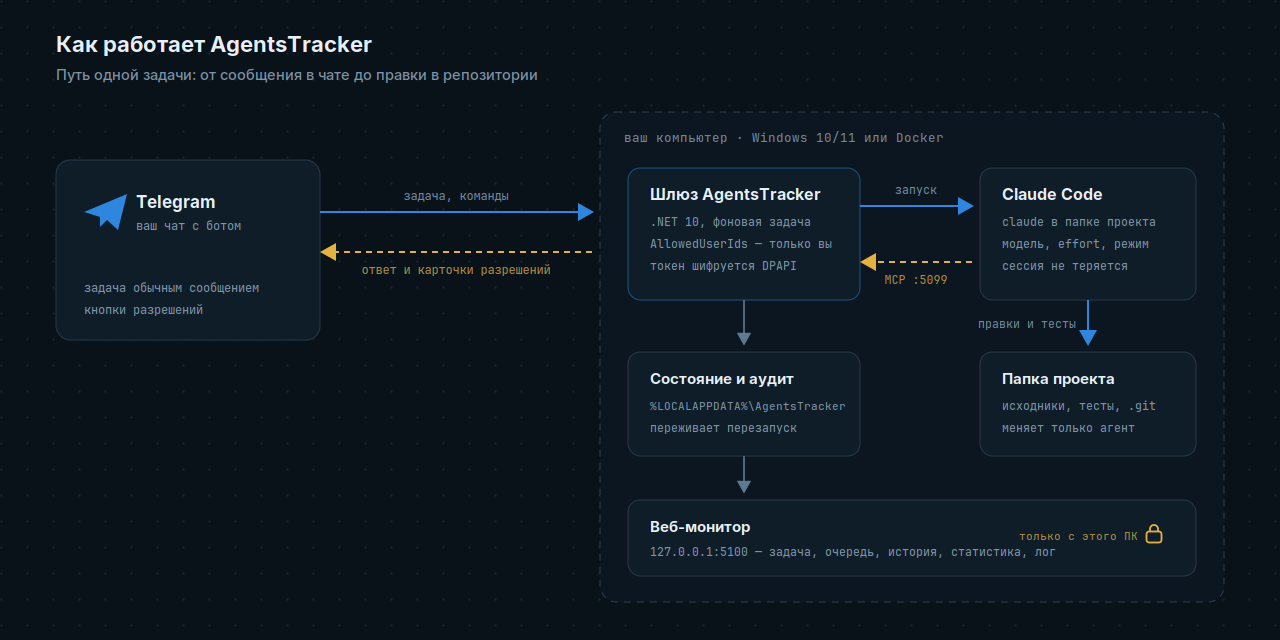
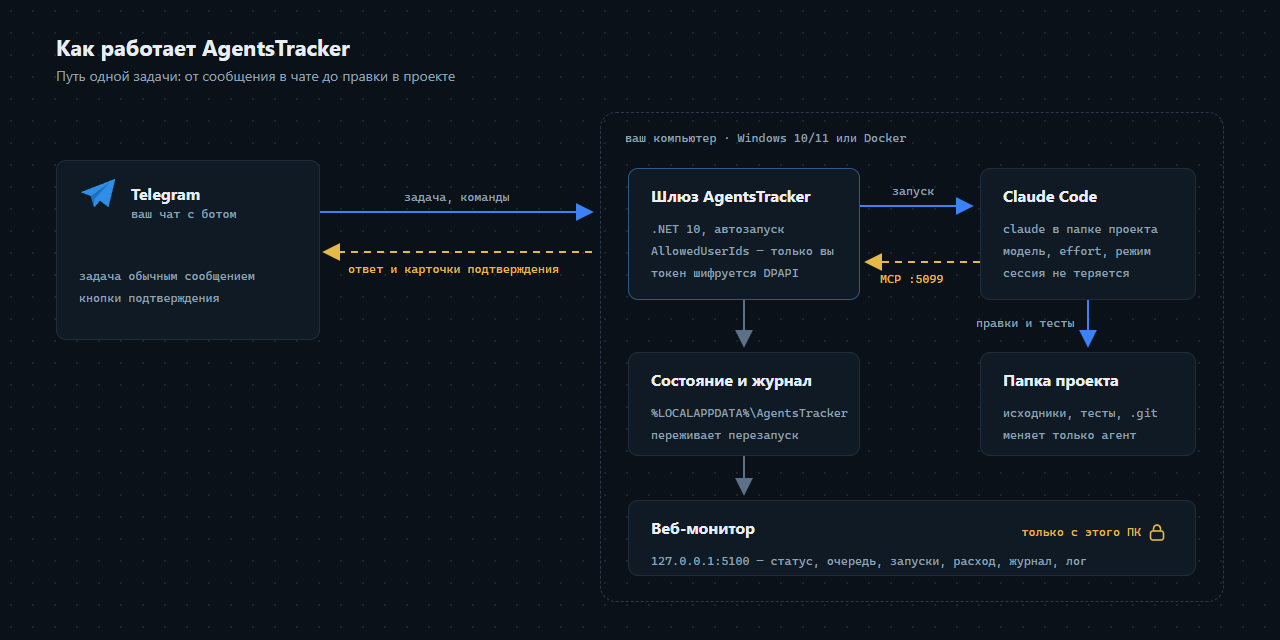
[readme] схема по глоссарию: проект вместо репозитория, карточки подтверждения, журнал; исходник схемы рядом

diff --git a/docs/images/architecture.html b/docs/images/architecture.html
@@ -1,0 +1,141 @@
+<!doctype html>
+<!--
+  Исходник docs/images/architecture.png. Картинку без исходника не поправить: слово на схеме
+  разойдётся с глоссарием, и его придётся рисовать заново. Снимок — окно 1280×640, например
+  через Playwright: browser_resize 1280×640, browser_navigate file:///…/architecture.html,
+  browser_take_screenshot.
+-->
+<html lang="ru">
+<head>
+<meta charset="utf-8">
+<title>Как работает AgentsTracker</title>
+<style>
+  :root {
+    --bg: #0b1118;
+    --card: #101a24;
+    --line: #1f2d3b;
+    --text: #e8eef4;
+    --muted: #8fa1b3;
+    --blue: #3b82f6;
+    --gold: #e5b84a;
+    --mono: "Cascadia Mono", Consolas, "DejaVu Sans Mono", monospace;
+    --sans: "Segoe UI", Inter, Arial, sans-serif;
+  }
+  * { box-sizing: border-box; margin: 0; }
+  html, body { width: 1280px; height: 640px; overflow: hidden; }
+  body {
+    position: relative;
+    background-color: var(--bg);
+    background-image: radial-gradient(#1a2633 1px, transparent 1px);
+    background-size: 22px 22px;
+    color: var(--text);
+    font-family: var(--sans);
+  }
+  h1 { position: absolute; left: 56px; top: 32px; font-size: 22px; font-weight: 700; }
+  .lead { position: absolute; left: 56px; top: 66px; font-size: 14px; color: var(--muted); }
+  .frame {
+    position: absolute; left: 600px; top: 112px; width: 624px; height: 490px;
+    border: 1px dashed #2a3a4a; border-radius: 16px;
+  }
+  .frame .tag { position: absolute; left: 24px; top: 18px; font: 12px var(--mono); color: var(--muted); }
+  .box {
+    position: absolute; background: var(--card); border: 1px solid var(--line);
+    border-radius: 10px; padding: 16px 22px;
+  }
+  .box.main { border-color: #2c5a8a; }
+  .box h2 { font-size: 16px; font-weight: 700; margin-bottom: 12px; }
+  .box p { font: 12px/22px var(--mono); color: var(--muted); }
+  .tg h2 { display: flex; align-items: center; gap: 14px; margin-bottom: 0; }
+  .tg .sub { font: 12px var(--mono); color: var(--muted); margin-left: 52px; margin-top: -2px; }
+  .tg .notes { margin-top: 44px; }
+  .lock { position: absolute; right: 30px; top: 22px; font: 12px var(--mono); color: var(--gold);
+          display: flex; align-items: center; gap: 8px; }
+  svg.arrows { position: absolute; left: 0; top: 0; }
+  .label { position: absolute; font: 12px var(--mono); color: var(--muted); }
+  .label.gold { color: var(--gold); }
+</style>
+</head>
+<body>
+  <h1>Как работает AgentsTracker</h1>
+  <div class="lead">Путь одной задачи: от сообщения в чате до правки в проекте</div>
+
+  <div class="box tg" style="left:56px; top:160px; width:264px; height:180px;">
+    <h2>
+      <svg width="38" height="32" viewBox="0 0 24 20" aria-hidden="true">
+        <path d="M23 1 1 9.5l6.5 2.4L9.8 19l3.4-4.1 5.4 4L23 1Z" fill="#2f8fe6"/>
+        <path d="m7.5 11.9 12.2-8.8-9.9 10.6-.5 5.3-1.8-7.1Z" fill="#1d6fc0"/>
+      </svg>
+      Telegram
+    </h2>
+    <div class="sub">ваш чат с ботом</div>
+    <p class="notes">задача обычным сообщением<br>кнопки подтверждения</p>
+  </div>
+
+  <div class="frame"><span class="tag">ваш компьютер · Windows 10/11 или Docker</span></div>
+
+  <div class="box main" style="left:628px; top:168px; width:232px; height:132px;">
+    <h2>Шлюз AgentsTracker</h2>
+    <p>.NET 10, автозапуск<br>AllowedUserIds — только вы<br>токен шифруется DPAPI</p>
+  </div>
+
+  <div class="box" style="left:980px; top:168px; width:216px; height:132px;">
+    <h2>Claude Code</h2>
+    <p>claude в папке проекта<br>модель, effort, режим<br>сессия не теряется</p>
+  </div>
+
+  <div class="box" style="left:628px; top:352px; width:232px; height:104px;">
+    <h2>Состояние и журнал</h2>
+    <p>%LOCALAPPDATA%\AgentsTracker<br>переживает перезапуск</p>
+  </div>
+
+  <div class="box" style="left:980px; top:352px; width:216px; height:104px;">
+    <h2>Папка проекта</h2>
+    <p>исходники, тесты, .git<br>меняет только агент</p>
+  </div>
+
+  <div class="box" style="left:628px; top:500px; width:568px; height:76px;">
+    <h2>Веб-монитор</h2>
+    <p>127.0.0.1:5100 — статус, очередь, запуски, расход, журнал, лог</p>
+    <span class="lock">только с этого ПК
+      <svg width="16" height="18" viewBox="0 0 16 18" aria-hidden="true">
+        <rect x="1.5" y="8" width="13" height="9" rx="2.5" fill="none" stroke="#e5b84a" stroke-width="1.6"/>
+        <path d="M4.5 8V5.5a3.5 3.5 0 0 1 7 0V8" fill="none" stroke="#e5b84a" stroke-width="1.6"/>
+      </svg>
+    </span>
+  </div>
+
+  <svg class="arrows" width="1280" height="640" aria-hidden="true">
+    <defs>
+      <marker id="blue" viewBox="0 0 10 10" refX="9" refY="5" markerWidth="9" markerHeight="9" orient="auto-start-reverse">
+        <path d="M0 0 10 5 0 10Z" fill="#3b82f6"/>
+      </marker>
+      <marker id="gold" viewBox="0 0 10 10" refX="9" refY="5" markerWidth="9" markerHeight="9" orient="auto-start-reverse">
+        <path d="M0 0 10 5 0 10Z" fill="#e5b84a"/>
+      </marker>
+      <marker id="grey" viewBox="0 0 10 10" refX="9" refY="5" markerWidth="9" markerHeight="9" orient="auto-start-reverse">
+        <path d="M0 0 10 5 0 10Z" fill="#5c7186"/>
+      </marker>
+    </defs>
+    <!-- чат → шлюз -->
+    <line x1="320" y1="212" x2="592" y2="212" stroke="#3b82f6" stroke-width="2" marker-end="url(#blue)"/>
+    <!-- шлюз → чат -->
+    <line x1="592" y1="252" x2="324" y2="252" stroke="#e5b84a" stroke-width="2" stroke-dasharray="7 6" marker-end="url(#gold)"/>
+    <!-- шлюз → Claude Code -->
+    <line x1="860" y1="206" x2="972" y2="206" stroke="#3b82f6" stroke-width="2" marker-end="url(#blue)"/>
+    <!-- Claude Code → шлюз по MCP -->
+    <line x1="980" y1="262" x2="866" y2="262" stroke="#e5b84a" stroke-width="2" stroke-dasharray="7 6" marker-end="url(#gold)"/>
+    <!-- Claude Code → папка проекта -->
+    <line x1="1088" y1="300" x2="1088" y2="346" stroke="#3b82f6" stroke-width="2" marker-end="url(#blue)"/>
+    <!-- шлюз → состояние -->
+    <line x1="744" y1="300" x2="744" y2="346" stroke="#5c7186" stroke-width="2" marker-end="url(#grey)"/>
+    <!-- состояние → монитор -->
+    <line x1="744" y1="456" x2="744" y2="494" stroke="#5c7186" stroke-width="2" marker-end="url(#grey)"/>
+  </svg>
+
+  <span class="label" style="left:404px; top:190px;">задача, команды</span>
+  <span class="label gold" style="left:348px; top:262px;">ответ и карточки подтверждения</span>
+  <span class="label" style="left:892px; top:184px;">запуск</span>
+  <span class="label gold" style="left:880px; top:272px;">MCP :5099</span>
+  <span class="label" style="left:976px; top:316px;">правки и тесты</span>
+</body>
+</html>
